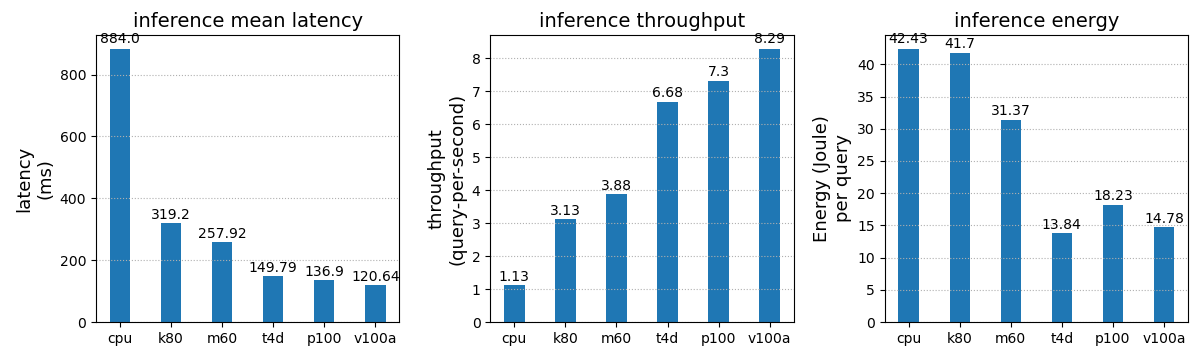
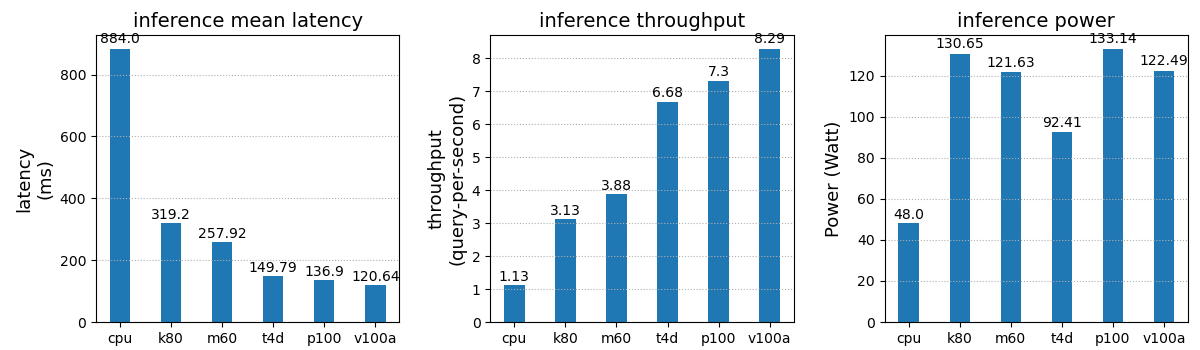
updates

Changed region(s): [[0.6783, 0.0286, 0.9867, 0.7429], [0.7092, 0.8, 0.74, 0.8286]]

diff --git a/experiments/solver/optimize.py b/experiments/solver/optimize.py
@@ -8,12 +8,12 @@ with open('config.json') as f:
 
 throughput = [-x for x in inputs['throughput_qps']]
 target_lat = inputs['target_lat']
-latency = [target_lat - x for x in inputs['latency_ms']]
-energy = inputs['energy_Jpq']
+latency = [x - target_lat for x in inputs['latency_ms']]
+power = inputs['power_W']
 
 ############ optimization kernel ###############
 
-obj = energy
+obj = power
 lhs_ineq = [throughput, latency]
 rhs_ineq = [-inputs['target_qps'], 0]
 opt = linprog(c=obj, A_ub=lhs_ineq, b_ub=rhs_ineq, method='revised simplex')
@@ -22,9 +22,8 @@ optima = np.ceil(opt.x)
 ###############################################
 
 hardware = inputs['hardware']
-energy_opt = np.multiply(np.multiply(throughput,energy), optima)
-energy_opt = -sum(energy_opt)
-print(f'optimal energy: {energy_opt} (Joule) per second')
+power_opt = sum(np.multiply(power, optima))
+print(f'optimal power: {power_opt} Watt')
 for i, item in enumerate(hardware):
     print(f'Use {int(optima[i])} {item}')
 

diff --git a/experiments/process.py b/experiments/process.py
@@ -74,13 +74,13 @@ for i, gpu in enumerate(gpus):
         pwr = np.percentile(df[column], 90) #TODO
 
     time = lat_list[i]/1000 #second
-    energy_list.append(pwr*time)
+    energy_list.append(pwr)
 
 rect = axs[2].bar(x, energy_list, width)
 axs[2].set_xticks(x)
 axs[2].set_xticklabels(GPUs)
-axs[2].set_title('inference energy', fontsize=14)
-axs[2].set_ylabel('Energy (Joule)\nper query', fontsize=13)
+axs[2].set_title('inference power', fontsize=14)
+axs[2].set_ylabel('Power (Watt)', fontsize=13)
 autolabel(rect, axs[2])
 
 for ax in axs:
